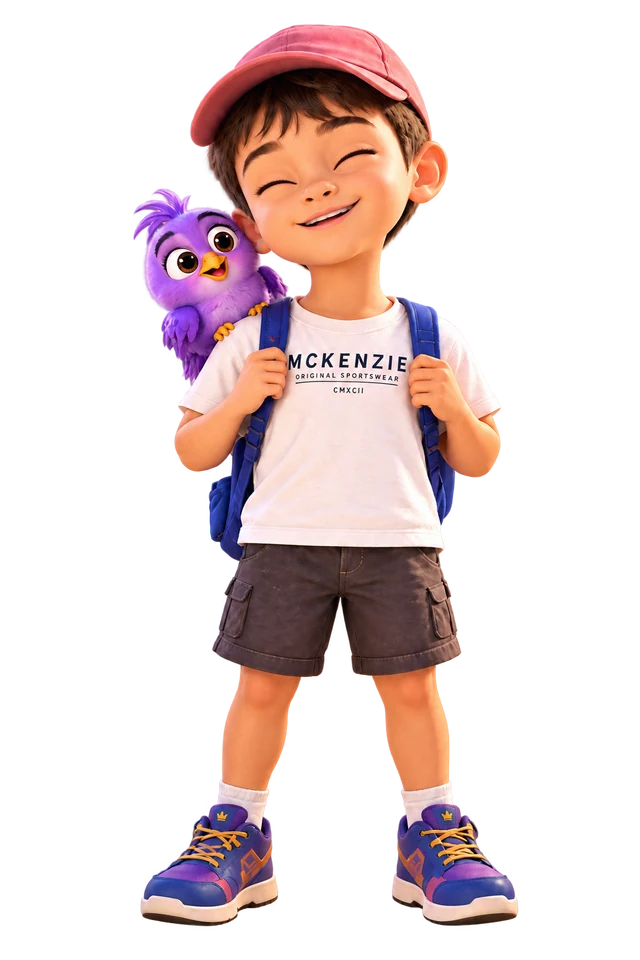
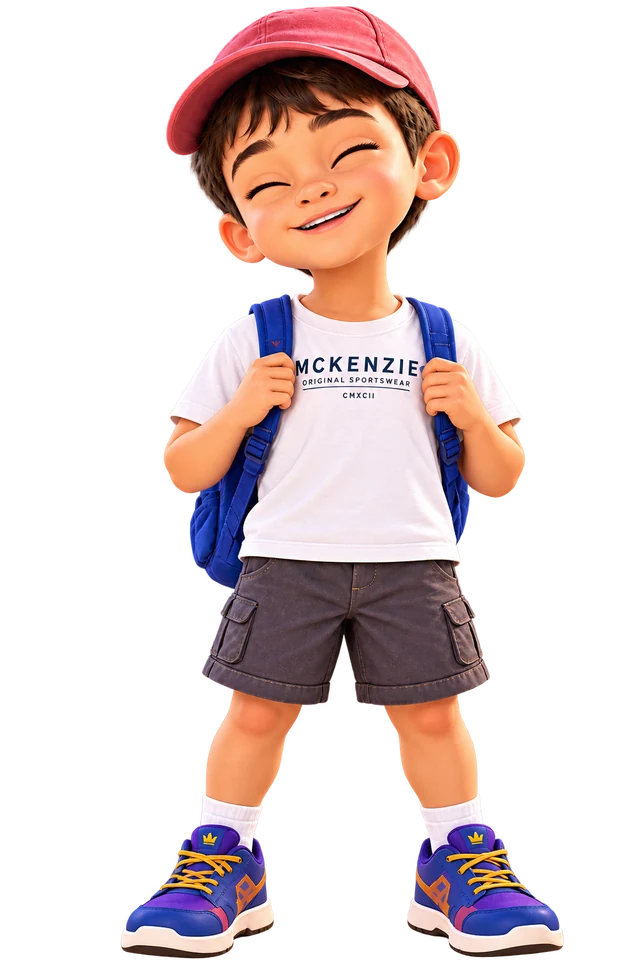
Home: Chirpy is his own flyer (shoulder, over the hovered card, sky tour); boy uses the no-bird poses so there is only one Chirpy

Changed region(s): [[0.1875, 0.0, 0.875, 1.0]]

diff --git a/src/features/practise/kids-v1/best/HomeScreen.tsx b/src/features/practise/kids-v1/best/HomeScreen.tsx
@@ -37,7 +37,7 @@ const POSE_SRC: Record<Exclude<Pose, 'center'>, string> = {
 /** The standing boy: his resting picture, with each expression stacked on top and faded in as needed. */
 function BoyPoses({ pose }: { pose: Pose }) {
   return <span className="hs-poses">
-    <img src="/assets/home/boy@640.webp" alt="" />
+    <img className={pose === 'center' ? '' : 'hide'} src="/assets/home/boy-nobird@640.webp" alt="" />
     {(Object.keys(POSE_SRC) as (keyof typeof POSE_SRC)[]).map((k) => <img key={k} className={`p ${pose === k ? 'on' : ''}`} src={`/assets/home/${POSE_SRC[k]}@640.webp`} alt="" />)}
   </span>;
 }
@@ -417,6 +417,24 @@ export function HomeScreen({ name, onDeepDive, onOpenRoom, onPractice, onGrownUp
   const write = (value: string) => { s.setMonthReview(month, noteKey, value); setSaved(false); };
 
   const aim = look ?? hint;
+  /* CHIRPY FLIES. He rests on the boy's shoulder, flies up over the card you point at (never onto it),
+     takes a turn round the sky, and is back on the shoulder when someone speaks. */
+  const [tour, setTour] = useState<'shoulder' | 'sky' | 'c1' | 'c2' | 'c3'>('shoulder');
+  const [flying, setFlying] = useState(false);
+  useEffect(() => {
+    if (quiet || reduced) return;
+    const order: ('sky' | 'c3' | 'shoulder' | 'c1' | 'shoulder' | 'c2')[] = ['sky', 'c3', 'shoulder', 'c1', 'shoulder', 'c2'];
+    let i = 0;
+    const t = window.setInterval(() => { setTour(order[i % order.length]); i += 1; }, 7000);
+    return () => window.clearInterval(t);
+  }, [quiet, reduced]);
+  const spot: 'shoulder' | 'sky' | 'c1' | 'c2' | 'c3' = teaching ? 'shoulder' : aim !== null ? (`c${aim + 1}` as 'c1' | 'c2' | 'c3') : tour;
+  useEffect(() => {
+    setFlying(true);
+    const t = window.setTimeout(() => setFlying(false), 1000);
+    return () => window.clearTimeout(t);
+  }, [spot]);
+  const chirpyPose: ChirpyPose = teaching ? 'excited' : flying ? 'excited' : aim !== null ? 'wondering' : CHIRPY_MOODS[mood];
   const pose: Pose = flash ?? (teaching || aim !== null ? 'happy' : gaze);
   return <main ref={home} onPointerDown={(e) => { spark(e); if (!(e.target as HTMLElement).closest?.('.hs-friend-card,.hs-friend')) setFriend(null); }} onKeyDown={(e) => { if (e.key === 'Escape') setFriend(null); }} className={`mg-home ${night ? 'hs-night' : 'hs-day'} hs-${phase} ${quiet || reduced ? 'mg-still' : ''} ${leaving !== null ? `hs-leaving hs-leaving-${leaving + 1}` : ''}`} style={{ fontFamily: FONT }}>
     <div className={`hs-loading ${ready ? 'is-done' : ''}`} aria-hidden="true"><img src={`${A}LanternON.webp`} alt="" /></div>
@@ -474,6 +492,7 @@ export function HomeScreen({ name, onDeepDive, onOpenRoom, onPractice, onGrownUp
     {/* Wide screens: the guide is pinned to the window's right-most edge, outside the scaled stage. */}
     <div className="hs-wide">
       <div className="hs-bubble hs-wide-bubble" aria-live="polite">{teaching ? <>{teaching}<small>Tap me again for another one.</small></> : aim !== null ? (look === null ? HINT_LINES[aim] : CARD_LINES[aim]) : (intro && met.length < total ? INTRO_LINE : greeting(hour))}</div>
+      <button className={`hs-flyer hs-at-${spot} ${flying ? 'is-flying' : ''}`} onClick={sayTeaching} aria-label="Chirpy. Tap him to hear something kind."><img src={chirpySprite(chirpyPose)} alt="" /></button>
       <button ref={boyBtn} className={`hs-wide-boy ${aim !== null ? `hs-look-${aim + 1}` : ''} ${teaching ? 'mg-boy-said' : ''} ${hop ? (hop % 2 ? 'hs-hop-a' : 'hs-hop-b') : ''}`} onClick={sayTeaching} aria-label="Tap the explorer — he has something to tell you"><BoyPoses pose={pose} /><span className="mg-tapme hs-tapme" aria-hidden="true">Tap me</span></button>
     </div>
     <div className="hs-stage">
@@ -494,7 +513,7 @@ export function HomeScreen({ name, onDeepDive, onOpenRoom, onPractice, onGrownUp
       </header>
 
       {/* Phone only: a standing boy at the left edge, fixed to the screen. */}
-      <button className={`hs-side hs-side-l ${teaching ? 'mg-boy-said' : ''} ${hop ? (hop % 2 ? 'hs-hop-a' : 'hs-hop-b') : ''}`} onClick={sayTeaching} aria-label="Tap the explorer — he has something to tell you"><BoyPoses pose={pose} /><span className="mg-tapme hs-tapme" aria-hidden="true">Tap me</span></button>
+      <button className={`hs-side hs-side-l ${teaching ? 'mg-boy-said' : ''} ${hop ? (hop % 2 ? 'hs-hop-a' : 'hs-hop-b') : ''}`} onClick={sayTeaching} aria-label="Tap the explorer — he has something to tell you"><BoyPoses pose={pose} /><img className="hs-chirp-m" src={chirpySprite(chirpyPose)} alt="" /><span className="mg-tapme hs-tapme" aria-hidden="true">Tap me</span></button>
       <section className="hs-guide" aria-label="Your guide">
         <div className="hs-bubble" aria-live="polite">{teaching ? <>{teaching}<small>Tap me again for another one.</small></> : aim !== null ? (look === null ? HINT_LINES[aim] : CARD_LINES[aim]) : (intro && met.length < total ? INTRO_LINE : greeting(hour))}</div>
         <button className={`hs-boy-wrap ${teaching ? 'mg-boy-said' : ''}`} onClick={sayTeaching} aria-label="Tap the explorer — he has something to tell you">

diff --git a/src/features/practise/kids-v1/best/HomeScreen.css b/src/features/practise/kids-v1/best/HomeScreen.css
@@ -1424,3 +1424,41 @@
 @media(max-width:760px),(max-aspect-ratio:1/1){
   .hs-midday .hs-sky{background:radial-gradient(ellipse at 52% 50%,#ffffffbb 0,transparent 44%),linear-gradient(180deg,#7fa8dc 0%,#a6c3e8 32%,#c9dcf0 50%,#e3eef6 58%,#dbe7ee 62%,#b4c3d6 68%,#8393b4 78%,#5d6696 100%)}
 }
+
+/* ===== CHIRPY, as his own character on the boy's shoulder ===== */
+.hs-poses .hs-chirp{position:absolute;left:19%;top:21%;width:28%;height:auto;z-index:2;filter:drop-shadow(0 .5vw .8vw #1a0b3c99);transform-origin:50% 90%;
+  animation:hs-chirp-bob 2.6s ease-in-out infinite;transition:left .45s cubic-bezier(.3,1.4,.5,1),top .45s cubic-bezier(.3,1.4,.5,1),scale .3s}
+@keyframes hs-chirp-bob{0%,100%{translate:0 0;rotate:-2deg}50%{translate:0 -4%;rotate:3deg}}
+/* he leans toward whatever the boy looks at, and flaps up when something is said */
+.hs-chirp.hs-chirp-left{left:13%}.hs-chirp.hs-chirp-right{left:25%}.hs-chirp.hs-chirp-up{top:16%}.hs-chirp.hs-chirp-down{top:25%}
+.hs-chirp.hs-chirp-happy,.hs-chirp.hs-chirp-surprised{scale:1.12;top:15%}
+.hs-chirp.is-excited{animation-duration:.9s}
+.mg-still .hs-poses .hs-chirp{animation:none;transition:none}
+@media(prefers-reduced-motion:reduce){.hs-poses .hs-chirp{animation:none;transition:none}}
+
+/* ===== CHIRPY, a character of his own: perches on the boy, flies over the cards, never lands on them ===== */
+.hs-flyer{display:none}
+@media(min-width:761px) and (min-aspect-ratio:1/1){
+  .hs-wide{--W:min(100vw,calc(100svh*16/9));--SL:calc(50vw - var(--W)/2);--ST:calc(50svh - var(--W)*9/32)}
+  .hs-flyer{display:block;position:absolute;width:calc(var(--S)*7.2);padding:0;border:0;background:none;cursor:pointer;pointer-events:auto;z-index:1;translate:-50% -50%;
+    transition:left .9s cubic-bezier(.45,.05,.25,1),top .9s cubic-bezier(.45,.05,.25,1)}
+  .hs-flyer img{display:block;width:100%;height:auto;filter:drop-shadow(0 .5vw .8vw #1a0b3c99);animation:hs-chirp-bob 2.6s ease-in-out infinite;transform-origin:50% 90%}
+  .hs-flyer.is-flying img{animation:hs-flap .28s ease-in-out infinite}
+  .hs-flyer:hover img,.hs-flyer:focus-visible img{filter:brightness(1.12) drop-shadow(0 0 1.2vw #c9a5ff) drop-shadow(0 .5vw .8vw #1a0b3c99)}
+  /* shoulder: measured from the boy's own box (29S wide, right-aligned past the edge) */
+  .hs-at-shoulder{left:calc(104.8vw - var(--S)*29 + var(--S)*29*.28);top:calc(100svh + var(--S)*1.7 - var(--S)*43.5 + var(--S)*43.5*.3)}
+  .hs-at-sky{left:calc(var(--SL) + var(--W)*.5);top:calc(var(--ST) + var(--W)*9/16*.13)}
+  .hs-at-c1{left:calc(var(--SL) + var(--W)*.255);top:calc(var(--ST) + var(--W)*9/16*.285)}
+  .hs-at-c2{left:calc(var(--SL) + var(--W)*.5);top:calc(var(--ST) + var(--W)*9/16*.285)}
+  .hs-at-c3{left:calc(var(--SL) + var(--W)*.745);top:calc(var(--ST) + var(--W)*9/16*.285)}
+}
+@keyframes hs-flap{0%,100%{translate:0 0;rotate:-6deg;scale:1}50%{translate:0 -7%;rotate:6deg;scale:1.06}}
+.mg-still .hs-flyer,.mg-still .hs-flyer img{transition:none;animation:none}
+@media(prefers-reduced-motion:reduce){.hs-flyer,.hs-flyer img{transition:none;animation:none}}
+.hs-poses img.hide{opacity:0}
+.hs-chirp-m{display:none}
+/* PHONE: Chirpy rides the boy's shoulder, in the boy's own box so they stay together. */
+@media(max-width:760px),(max-aspect-ratio:1/1){
+  .hs-side .hs-poses{display:block}
+  .hs-side .hs-chirp-m{display:block;position:absolute;left:60%;top:17%;width:34%!important;height:auto;z-index:3;filter:drop-shadow(0 1vw 1.4vw #1a0b3c99);animation:hs-chirp-bob 2.6s ease-in-out infinite;transform-origin:50% 90%}
+}
